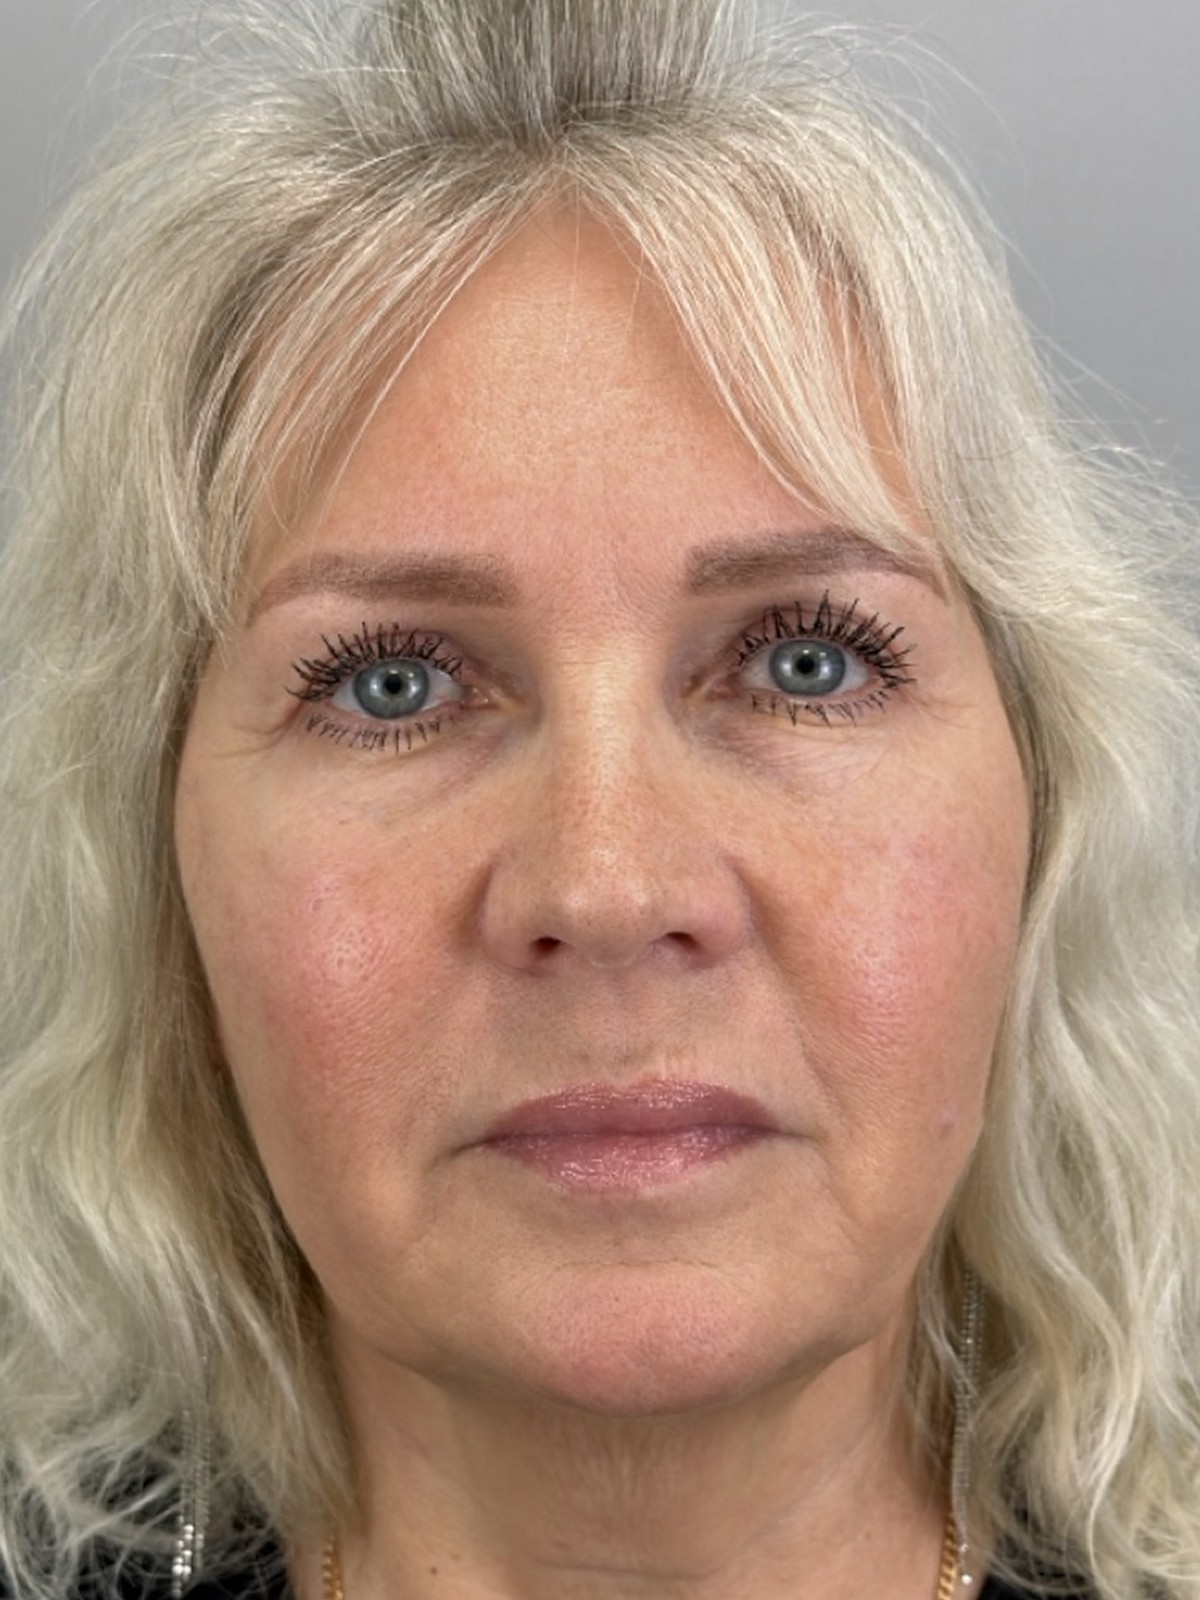
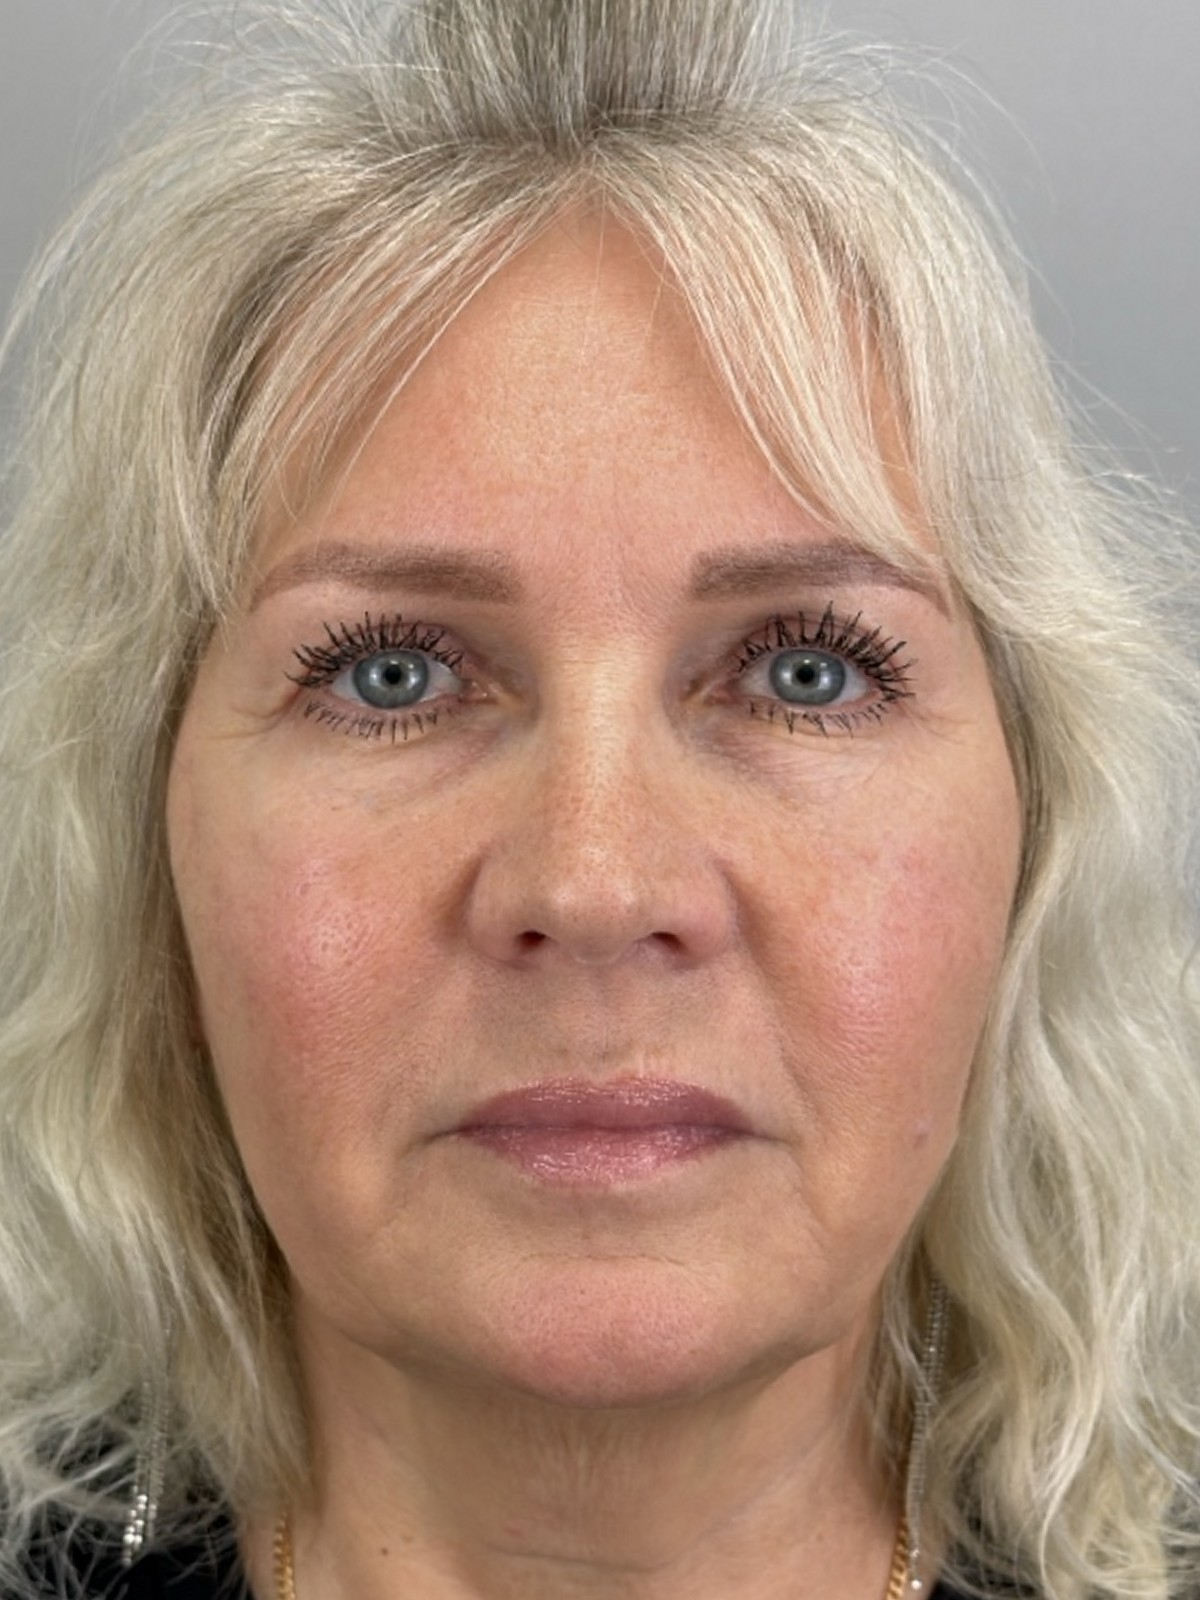
Blepharoplasty 7/7: match face scale (before x1.03), no vertical stretch

diff --git a/app.js b/app.js
@@ -181,7 +181,7 @@
     if (!rail || !stage) return;
 
     // Bump when case photos are replaced under the same file name, so browsers don't show cached old ones.
-    var PHOTO_V = '?v=36';
+    var PHOTO_V = '?v=37';
     var CASES = [
       { proc: 'Блефаропластика', title: 'Верхняя блефаропластика', task: 'Тяжёлое верхнее веко, взгляд читается уставшим.', did: 'Иссечение избытка кожи верхнего века, разрез в естественной складке.', result: 'Взгляд открытый, форма глаза сохранена.', term: '3 месяца', expert: '<span>«Развести избыток кожи, опущение брови и птоз — главная задача консультации.</span> <span>От этого зависит весь план.»</span>', photos: [
         { before: 'assets/cases/blepharoplasty-upper-6-before.jpg', after: 'assets/cases/blepharoplasty-upper-6-after.jpg' },

diff --git a/index.html b/index.html
@@ -557,7 +557,7 @@
 <script src="ap5-figure.js?v=29"></script>
 <script src="availability.js?v=29"></script>
 <script src="booking.js?v=29"></script>
-<script src="app.js?v=36"></script>
+<script src="app.js?v=37"></script>
 
 <!-- Motion system — loads after app.js so dynamically-created elements
      (rail buttons, subnav, booking panels) already exist in the DOM. -->
